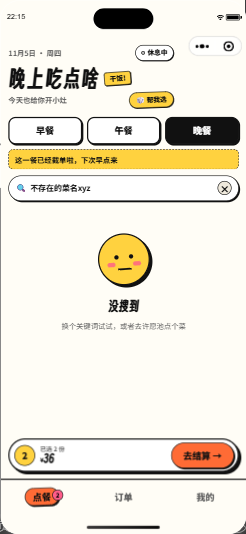
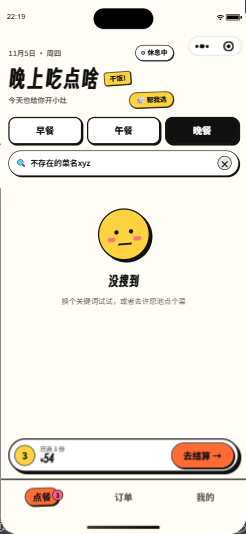
fix: 并发状态流转、日期显示与读额度优化
- 订单取消/状态流转改为条件更新，避免重复流转和库存重复回补
- 修复历史日期显示成「今天」，补充「昨天」
- 首页售罄菜排到分类末尾
- 分类数据缓存 5 分钟，厨房静默轮询只拉订单
- 新增小程序更新提示与本地错误记录
- 订单详情支持分享，许愿池支持管理员回复

Changed region(s): [[0.0285, 0.2697, 0.9959, 0.6292], [0.1707, 0.839, 0.2276, 0.8689], [0.0854, 0.839, 0.1138, 0.8689]]

diff --git a/cloudfunctions/api/index.js b/cloudfunctions/api/index.js
@@ -915,15 +915,19 @@ async function cancelOrder(payload, openid) {
     title: STEP_TITLES.cancelled,
     time: Date.now()
   }
-  await db
+  // 条件更新：并发取消时只会成功一次，避免库存重复回补
+  const upd = await db
     .collection('orders')
-    .doc(payload.id)
+    .where({ _id: payload.id, status: 'pending' })
     .update({
       data: {
         status: 'cancelled',
         timeline: _.push([entry])
       }
     })
+  if (!upd.stats || upd.stats.updated !== 1) {
+    throw new Error('订单状态刚刚变了，刷新看看')
+  }
   await restoreStock(order)
 
   return withId(
@@ -978,7 +982,8 @@ async function restoreStock(order) {  for (const item of order.items || []) {
   }
 }
 
-async function updateOrderStatus(payload, openid) {  await requireAdmin(openid)
+async function updateOrderStatus(payload, openid) {
+  await requireAdmin(openid)
   const id = payload.id
   const status = payload.status
   if (!id || !status) {
@@ -997,15 +1002,19 @@ async function updateOrderStatus(payload, openid) {  await requireAdmin(openid)
     title: STEP_TITLES[status] || status,
     time: Date.now()
   }
-  await db
+  // 条件更新：并发操作只有一次会生效
+  const upd = await db
     .collection('orders')
-    .doc(id)
+    .where({ _id: id, status: order.status })
     .update({
       data: {
         status,
         timeline: _.push([entry])
       }
     })
+  if (!upd.stats || upd.stats.updated !== 1) {
+    throw new Error('订单状态刚刚变了，刷新看看')
+  }
 
   // 厨房拒掉尚未接单的订单时，把扣掉的库存补回去
   if (status === 'cancelled' && order.status === 'pending') {

diff --git a/miniprogram/app.ts b/miniprogram/app.ts
@@ -38,5 +38,50 @@ App({
       success() {},
       fail() {}
     })
+
+    // 发布新版本后提示重启
+    try {
+      const updateManager =
+        wx.getUpdateManager && wx.getUpdateManager()
+      if (updateManager) {
+        updateManager.onUpdateReady(() => {
+          wx.showModal({
+            title: '新版本已就绪',
+            content: '重启一下就能用上新功能',
+            confirmText: '重启',
+            showCancel: false,
+            success(res: any) {
+              if (res.confirm) {
+                updateManager.applyUpdate()
+              }
+            }
+          })
+        })
+      }
+    } catch (e) {
+      // 老基础库没有更新管理器时忽略
+    }
+  },
+
+  // 出错时留一份本地记录，方便排查偶发问题
+  onError(err: any) {
+    this._logError(err)
+  },
+
+  onUnhandledRejection(res: any) {
+    this._logError(res && res.reason)
+  },
+
+  _logError(err: any) {
+    try {
+      const logs = wx.getStorageSync('kfl_error_log') || []
+      logs.unshift({
+        time: Date.now(),
+        msg: String((err && (err.message || err.errMsg)) || err).slice(0, 300)
+      })
+      wx.setStorageSync('kfl_error_log', logs.slice(0, 10))
+    } catch (e) {
+      // 记录失败不影响正常使用
+    }
   }
 })

diff --git a/miniprogram/pages/kitchen/index.ts b/miniprogram/pages/kitchen/index.ts
@@ -36,6 +36,7 @@ Page({
 
   _watchTimer: null as any,
   _knownPending: [] as string[],
+  _statsAt: 0,
 
   onShow() {
     this.guard()
@@ -108,11 +109,23 @@ Page({
 
   async load(silent = false) {
     try {
-      const [orders, dishes, stats] = await Promise.all([
-        getAllOrders(),
-        getDishes(),
-        getStats().catch(() => null)
-      ])
+      const orders = await getAllOrders()
+      // 静默轮询只拉订单；菜品和统计沿用上次结果，省云端读取次数
+      let dishes = this.data.dishes
+      let stats = this.data.stats
+      if (
+        !silent ||
+        !dishes.length ||
+        Date.now() - this._statsAt > 5 * 60 * 1000
+      ) {
+        const [freshDishes, freshStats] = await Promise.all([
+          getDishes(),
+          getStats().catch(() => null)
+        ])
+        dishes = freshDishes
+        stats = freshStats
+        this._statsAt = Date.now()
+      }
       const active = orders.filter(
         order => order.status !== 'completed' && order.status !== 'cancelled'
       )

diff --git a/miniprogram/pages/wishes/index.ts b/miniprogram/pages/wishes/index.ts
@@ -109,5 +109,34 @@ Page({
         icon: 'none'
       })
     }
+  },
+
+  async onReply(e: any) {
+    const id = e.currentTarget.dataset.id
+    const res: any = await wx.showModal({
+      title: '回一句',
+      editable: true,
+      placeholderText: '比如：周末给你做！',
+      confirmText: '回复',
+      cancelText: '算了'
+    })
+    if (!res.confirm) {
+      return
+    }
+    const reply = String(res.content || '').trim().slice(0, 50)
+    if (!reply) {
+      wx.showToast({ title: '没写内容', icon: 'none' })
+      return
+    }
+    try {
+      await updateWish({ id, reply })
+      wx.showToast({ title: '已回复', icon: 'none' })
+      this.load()
+    } catch (err: any) {
+      wx.showToast({
+        title: String((err && err.message) || '回复失败').slice(0, 40),
+        icon: 'none'
+      })
+    }
   }
 })

diff --git a/miniprogram/services/api.ts b/miniprogram/services/api.ts
@@ -35,9 +35,20 @@ async function callApi<T>(action: string, payload?: any): Promise<T> {
   return result.data as T
 }
 
+// 分类几乎不变，缓存 5 分钟，减少首页每次进入的数据库读取
+let categoriesCache: { at: number; data: Category[] } | null = null
+
 export async function getCategories(): Promise<Category[]> {
   if (USE_CLOUD) {
-    return callApi<Category[]>('getCategories')
+    if (
+      categoriesCache &&
+      Date.now() - categoriesCache.at < 5 * 60 * 1000
+    ) {
+      return categoriesCache.data.map(item => ({ ...item }))
+    }
+    const data = await callApi<Category[]>('getCategories')
+    categoriesCache = { at: Date.now(), data }
+    return data.map(item => ({ ...item }))
   }
   return mock.getCategories()
 }

diff --git a/miniprogram/pages/home/index.ts b/miniprogram/pages/home/index.ts
@@ -106,7 +106,14 @@ Page({
       const sections = categories
         .map(category => ({
           ...category,
-          dishes: available.filter(dish => dish.categoryId === category.id)
+          dishes: available
+            .filter(dish => dish.categoryId === category.id)
+            .sort((a, b) => {
+              // 卖完的菜排到分类末尾，别挡着能点的
+              const rank = (dish: Dish) =>
+                dish.status === 'soldout' || dish.stock === 0 ? 1 : 0
+              return rank(a) - rank(b)
+            })
         }))
         .filter(section => section.dishes.length > 0)
       const hero =

diff --git a/miniprogram/pages/order-detail/index.ts b/miniprogram/pages/order-detail/index.ts
@@ -6,7 +6,8 @@ import {
   formatDate,
   formatTime,
   dateLabel,
-  dateInputString
+  dateInputString,
+  itemSummary
 } from '../../utils/format'
 import { TEMPLATE_ORDER_STATUS } from '../../config'
 
@@ -270,5 +271,17 @@ Page({
 
   onBackHome() {
     wx.switchTab({ url: '/pages/home/index' })
+  },
+
+  onShareAppMessage() {
+    const order = this.data.order
+    return {
+      title: order
+        ? `我在张饱饭堂点了「${itemSummary(
+            order.items.map((item: any) => item.name)
+          )}」`
+        : '张饱饭堂 · 她点单，你掌勺',
+      path: '/pages/home/index'
+    }
   }
 })

diff --git a/miniprogram/utils/format.ts b/miniprogram/utils/format.ts
@@ -62,7 +62,12 @@ export function dateLabel(
   const diff = Math.round(
     (target.getTime() - base.getTime()) / (24 * 60 * 60 * 1000)
   )
-  if (diff <= 0) {
+  if (diff < 0) {
+    return diff === -1
+      ? '昨天'
+      : `${target.getMonth() + 1}月${target.getDate()}日`
+  }
+  if (diff === 0) {
     return '今天'
   }
   if (diff === 1) {

diff --git a/docs/迭代进度.md b/docs/迭代进度.md
@@ -77,6 +77,7 @@
 - 2026-11-05：新增菜品图片上传（云存储）与展示分支；厨房新增今日备菜清单、近 7 天经营概况；保存菜品时未传 image 不会清空原图。
 - 2026-11-05：新增顾客催单（云函数 `urgeOrder`，5 分钟冷却）、结算备注快捷短语、首页帮我选、我的页累计干饭与爱心券待用提示。
 - 2026-11-05：新增每日菜单定时滚动（触发器 `dailyMenuRoll`，04:00 复制当天菜单到明天）；领取/使用爱心券改为条件更新，避免并发重复领用；营业设置支持一键全部开火/休息。
+- 2026-11-05：订单取消/状态流转改为条件更新，避免并发重复流转和库存重复回补；修复历史日期显示成「今天」；首页售罄菜排到分类末尾；分类数据缓存 5 分钟；厨房静默轮询只拉订单以节省云数据库读额度；新增小程序更新提示、本地错误记录、订单分享、许愿池管理员回复。
 
 ## 已知事项
 

diff --git a/README.md b/README.md
@@ -90,6 +90,10 @@ node scripts/init-cloud-db.js ws://127.0.0.1:9420
 
 `api` 云函数带一个定时触发器 `dailyMenuRoll`（每天 04:00），会把当天的菜单复制到第二天，只补空缺、不覆盖已经排好的安排。触发器随云函数一起部署；不需要的话删掉 `cloudfunctions/api/config.json` 里的 `triggers` 即可。
 
+### 免费额度提示
+
+云开发免费套餐有每日数据库读写额度。厨房页会每 25 秒静默刷新一次订单（为省额度，只拉订单，菜品和统计 5 分钟才刷一次），长时间挂在厨房页仍会消耗读取次数。额度用尽后云函数会返回 `EXCEED_REQUEST_LIMIT / OutOfReadRequestQuota`，次日 0 点重置；个人使用一般够用，对外开放前建议升级套餐。
+
 ### 云函数动作
 
 `getCategories` / `getDishes` / `getDish` / `getOrders` / `getAllOrders` / `getOrder` /
